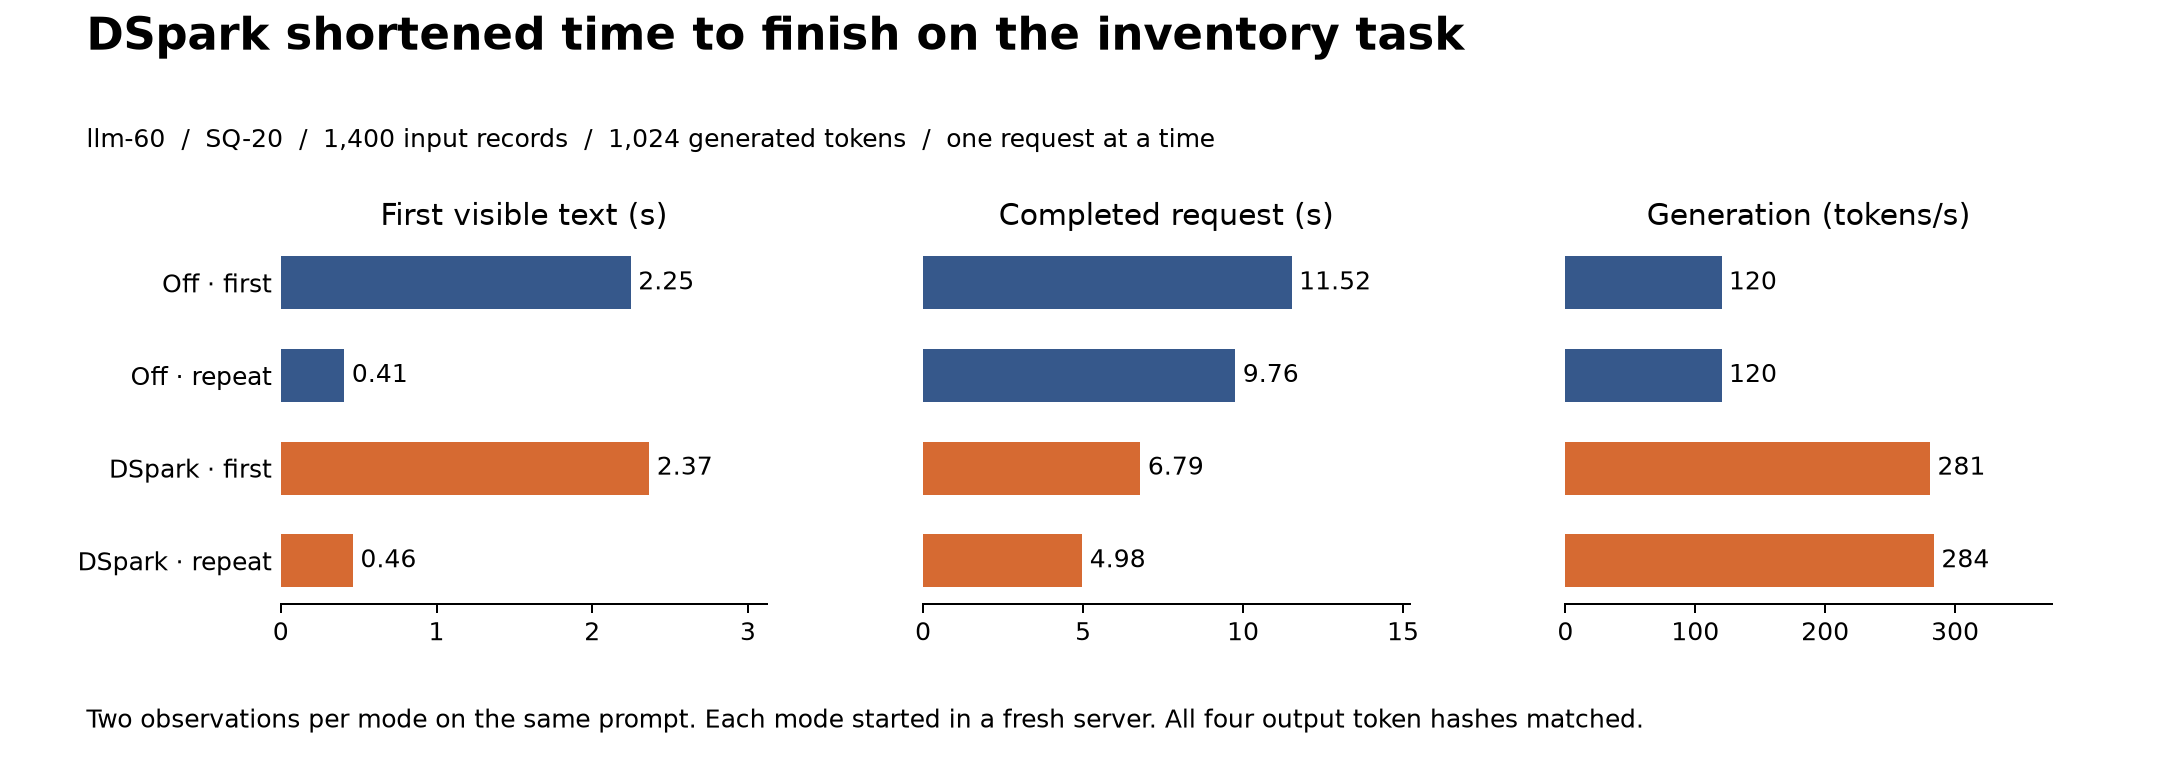
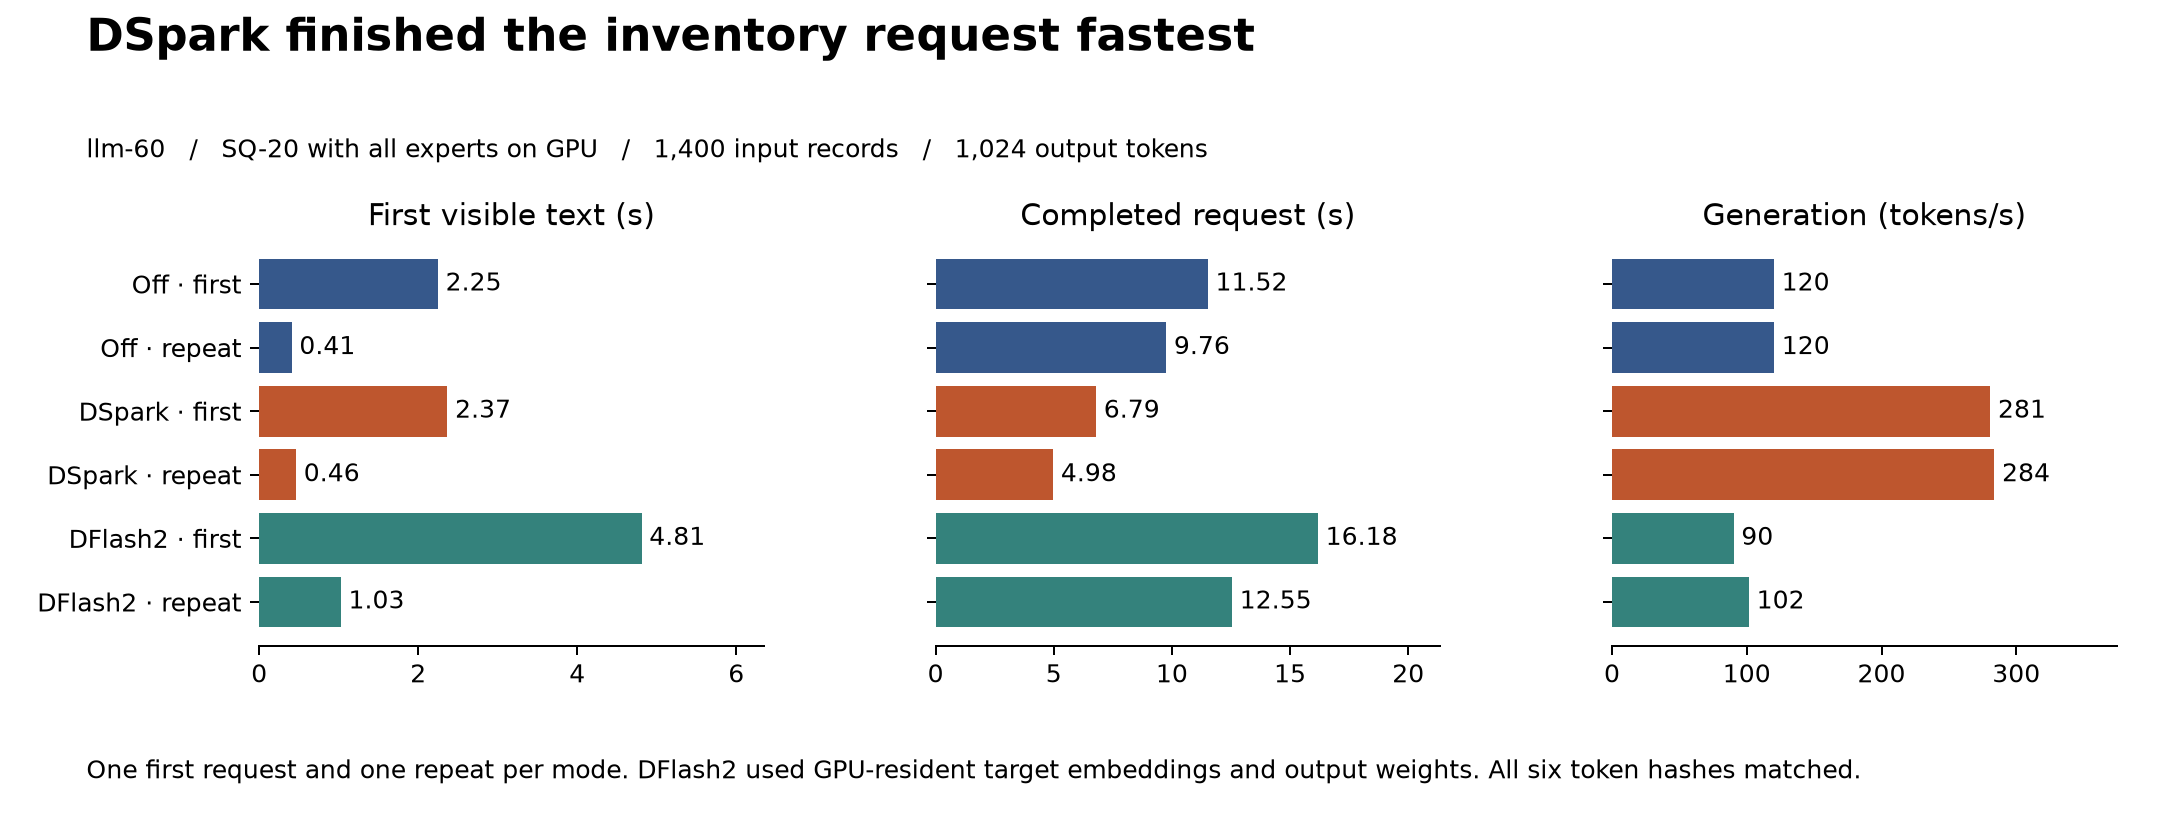
Include resident DFlash2 in long-output SQ-20 comparison

diff --git a/README.md b/README.md
@@ -74,7 +74,7 @@ With a native 250,000-token parent pinned on llm-60, three distinct register loo
 
 ![Native request time and generation rate for three paired 250k-context lookups](docs/benchmarks/inkling/warm-250k-native-draft.png)
 
-On llm-60, Cached generated 1,024 tokens from a 1,400-record inventory prompt at 281–284 tokens/s with DSpark and 120 tokens/s with drafting off. Each mode served the same prompt twice on a fresh SQ-20 server with all experts in VRAM. The repeated request finished in 4.98 s with DSpark and 9.76 s undrafted. All four token sequences matched. [Raw HTTP measurements](docs/benchmarks/inkling/sq20-inventory-1024.jsonl)
+On llm-60, Cached generated 1,024 tokens from a 1,400-record inventory prompt at 281–284 tokens/s with DSpark and 120 tokens/s with drafting off. Each mode served the same prompt twice on a fresh SQ-20 server with all experts in VRAM. The repeated request finished in 4.98 s with DSpark and 9.76 s undrafted. GPU-resident DFlash2 reached 102 tokens/s on the repeat and finished in 12.55 s. All six token sequences matched. [Raw HTTP measurements](docs/benchmarks/inkling/sq20-inventory-1024.jsonl)
 
 ![First visible text, completed request time and generation rate on the inventory prompt](docs/benchmarks/inkling/sq20-inventory-1024.png)
 
